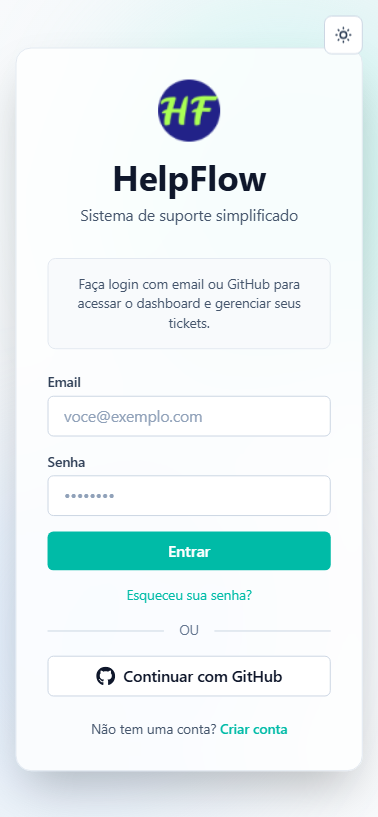
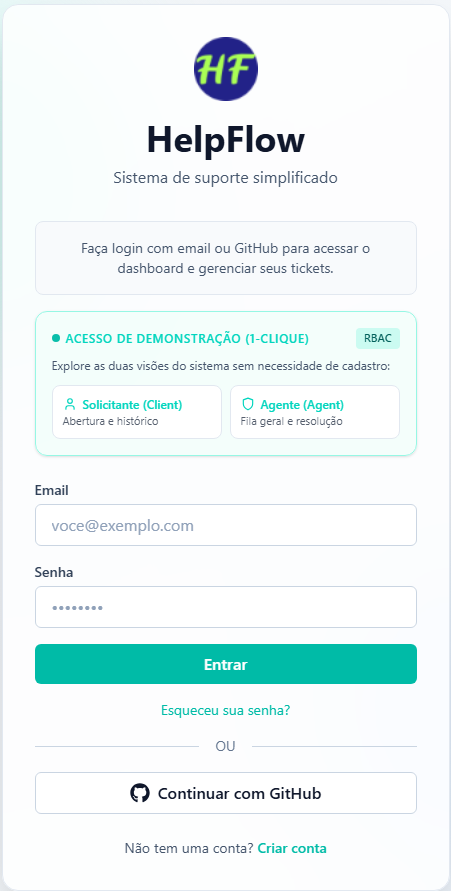
feat(auth): adiciona acesso rapido de demonstracao para client e agent (#52)

diff --git a/src/app/(auth)/login/page.jsx b/src/app/(auth)/login/page.jsx
@@ -17,6 +17,49 @@ export default function LoginPage() {
     const [error, setError] = useState("");
     const [loading, setLoading] = useState(false);
 
+    const DEMO_ACCOUNTS = {
+        client: {
+            email: "client.demo@helpflow.com",
+            password: "Demo@123456",
+        },
+        agent: {
+            email: "agent.demo@helpflow.com",
+            password: "Demo@123456",
+        },
+    };
+
+    const handleDemoLogin = async (type) => {
+        const creds = DEMO_ACCOUNTS[type];
+        if (!creds) return;
+        setEmail(creds.email);
+        setPassword(creds.password);
+        setLoading(true);
+        setError("");
+
+        try {
+            const res = await signIn("credentials", {
+                redirect: false,
+                email: creds.email,
+                password: creds.password,
+            });
+
+            if (res?.error) {
+                if (res.error.includes("Muitas tentativas")) {
+                    setError(res.error);
+                } else {
+                    setError("E-mail ou senha da conta demo inválidos.");
+                }
+            } else {
+                router.push("/dashboard");
+                router.refresh();
+            }
+        } catch (err) {
+            setError("Ocorreu um erro inesperado. Tente novamente.");
+        } finally {
+            setLoading(false);
+        }
+    };
+
     const handleSubmit = async (e) => {
         e.preventDefault();
         setLoading(true);
@@ -97,7 +140,7 @@ export default function LoginPage() {
                     </div>
 
                     {/* Description */}
-                    <div className={`border rounded-lg p-4 mb-6 ${
+                    <div className={`border rounded-lg p-4 mb-4 ${
                         theme === "light"
                             ? "bg-slate-50 border-slate-200"
                             : "bg-white/5 border-white/10"
@@ -107,6 +150,74 @@ export default function LoginPage() {
                         }`}>
                             Faça login com email ou GitHub para acessar o dashboard e gerenciar seus tickets.
                         </p>
+                    </div>
+
+                    {/* Demo Quick Access */}
+                    <div className={`border rounded-xl p-4 mb-6 ${
+                        theme === "light"
+                            ? "bg-teal-50/70 border-teal-200 shadow-sm"
+                            : "bg-teal-950/30 border-teal-800/50 shadow-sm"
+                    }`}>
+                        <div className="flex items-center justify-between gap-2 mb-2">
+                            <span className="text-xs font-semibold uppercase tracking-wider text-teal-600 dark:text-teal-400 flex items-center gap-1.5">
+                                <span className="inline-block w-2 h-2 rounded-full bg-teal-500 animate-pulse" />
+                                Acesso de Demonstração (1-Clique)
+                            </span>
+                            <span className={`text-[11px] px-2 py-0.5 rounded font-mono font-medium ${
+                                theme === "light" ? "bg-teal-100 text-teal-800" : "bg-teal-900/50 text-teal-300"
+                            }`}>
+                                RBAC
+                            </span>
+                        </div>
+                        <p className={`text-xs mb-3 ${
+                            theme === "light" ? "text-slate-600" : "text-slate-300"
+                        }`}>
+                            Explore as duas visões do sistema sem necessidade de cadastro:
+                        </p>
+                        <div className="grid grid-cols-1 sm:grid-cols-2 gap-2">
+                            <button
+                                type="button"
+                                disabled={loading}
+                                onClick={() => handleDemoLogin("client")}
+                                className={`text-left p-2.5 rounded-lg border transition-all text-xs ${
+                                    theme === "light"
+                                        ? "bg-white border-slate-200 hover:border-teal-400 hover:shadow text-slate-800"
+                                        : "bg-slate-900/80 border-slate-700 hover:border-teal-400 hover:bg-slate-800 text-slate-100"
+                                }`}
+                            >
+                                <span className="flex items-center gap-1.5 font-semibold text-teal-600 dark:text-teal-400">
+                                    <svg className="w-3.5 h-3.5" viewBox="0 0 24 24" fill="none" stroke="currentColor" strokeWidth="2" strokeLinecap="round" strokeLinejoin="round" aria-hidden="true">
+                                        <path d="M19 21v-2a4 4 0 0 0-4-4H9a4 4 0 0 0-4 4v2" />
+                                        <circle cx="12" cy="7" r="4" />
+                                    </svg>
+                                    <span>Solicitante (Client)</span>
+                                </span>
+                                <span className="block text-[11px] opacity-75 mt-0.5">
+                                    Abertura e histórico
+                                </span>
+                            </button>
+
+                            <button
+                                type="button"
+                                disabled={loading}
+                                onClick={() => handleDemoLogin("agent")}
+                                className={`text-left p-2.5 rounded-lg border transition-all text-xs ${
+                                    theme === "light"
+                                        ? "bg-white border-slate-200 hover:border-teal-400 hover:shadow text-slate-800"
+                                        : "bg-slate-900/80 border-slate-700 hover:border-teal-400 hover:bg-slate-800 text-slate-100"
+                                }`}
+                            >
+                                <span className="flex items-center gap-1.5 font-semibold text-teal-600 dark:text-teal-400">
+                                    <svg className="w-3.5 h-3.5" viewBox="0 0 24 24" fill="none" stroke="currentColor" strokeWidth="2" strokeLinecap="round" strokeLinejoin="round" aria-hidden="true">
+                                        <path d="M12 22s8-4 8-10V5l-8-3-8 3v7c0 6 8 10 8 10z" />
+                                    </svg>
+                                    <span>Agente (Agent)</span>
+                                </span>
+                                <span className="block text-[11px] opacity-75 mt-0.5">
+                                    Fila geral e resolução
+                                </span>
+                            </button>
+                        </div>
                     </div>
 
                     {/* Error */}

diff --git a/README.md b/README.md
@@ -19,7 +19,11 @@ O projeto também tem como foco o aprendizado de autenticação, autorização n
 - **Aplicação em produção:** [https://helpflow.vercel.app/](https://helpflow.vercel.app/)
 - **Repositório:** [https://github.com/tharciosantos/helpflow](https://github.com/tharciosantos/helpflow)
 
-A página pública apresenta os fluxos de `CLIENT` e `AGENT`. Para evitar credenciais compartilhadas, acesso administrativo indevido e mistura de dados, cada visitante pode criar sua própria conta `CLIENT` e usar dados fictícios. O projeto não fornece uma conta `AGENT` pública. Dados de demonstração podem ser removidos pelo próprio autor usando a exclusão normal do ticket; não há limpeza direta no banco.
+A aplicação conta com **Acesso de Demonstração (1-Clique)** diretamente na tela de login, permitindo explorar os dois fluxos do sistema com rapidez:
+- 👤 **Solicitante (`CLIENT`):** `client.demo@helpflow.com` — fluxo do usuário final com abertura, edição e acompanhamento de tickets próprios.
+- 🛡 **Agente (`AGENT`):** `agent.demo@helpflow.com` — fluxo de suporte com visão de todos os tickets da empresa, alteração de status/prioridade e resolução de chamados.
+
+Além disso, cada visitante pode criar sua própria conta individual pelo fluxo padrão de cadastro com dados fictícios.
 
 ### Apresentação pública
 
